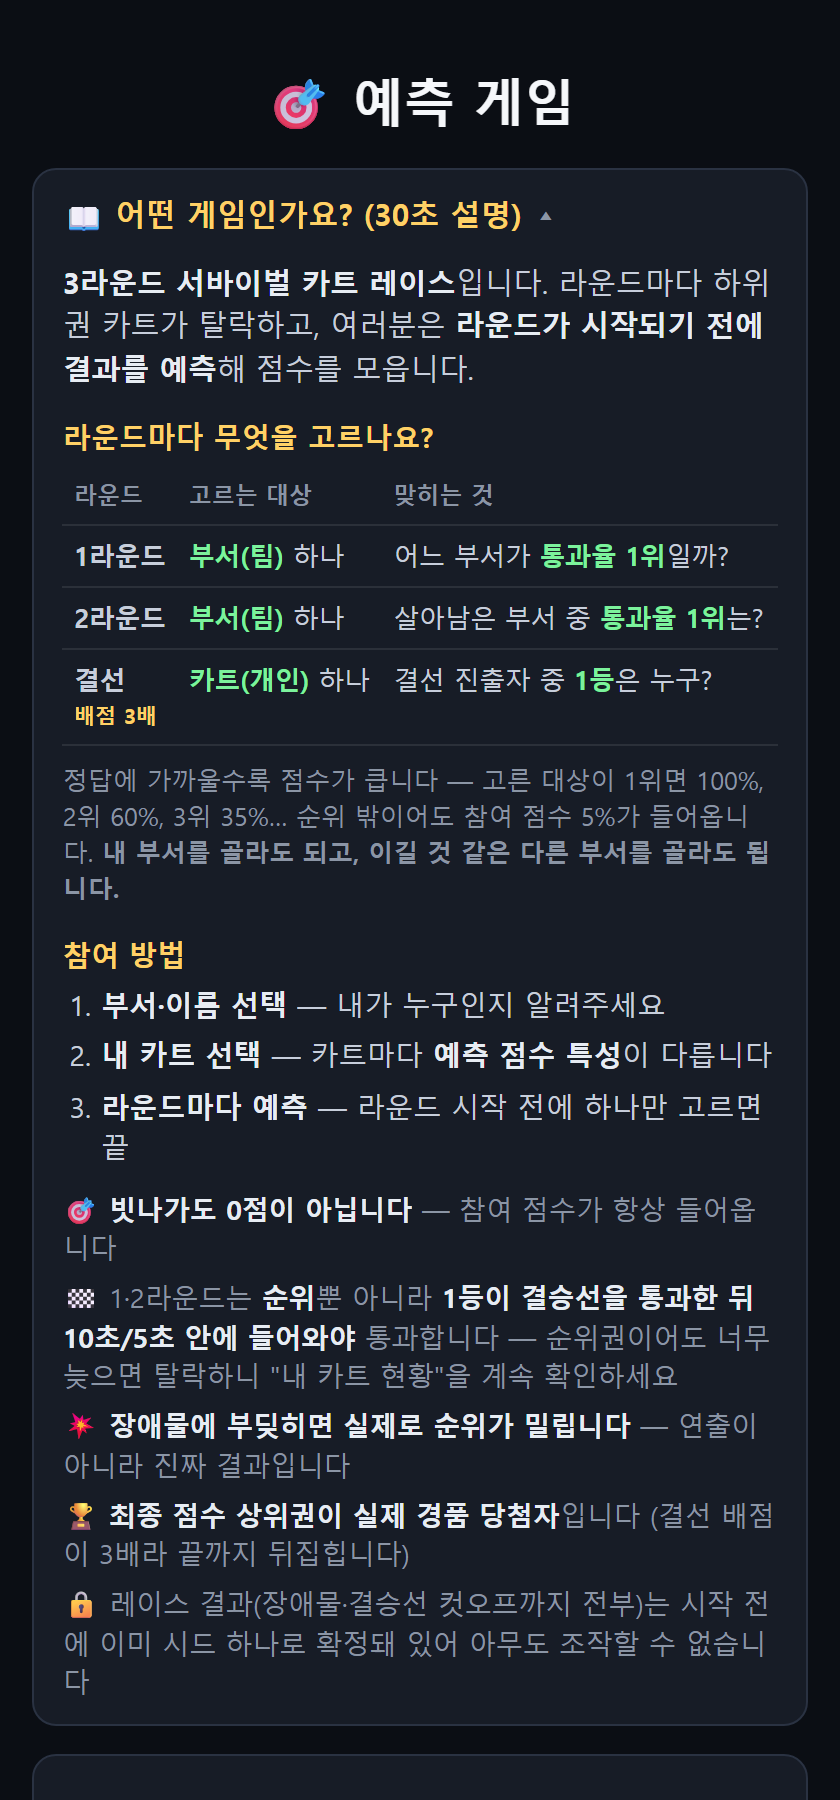
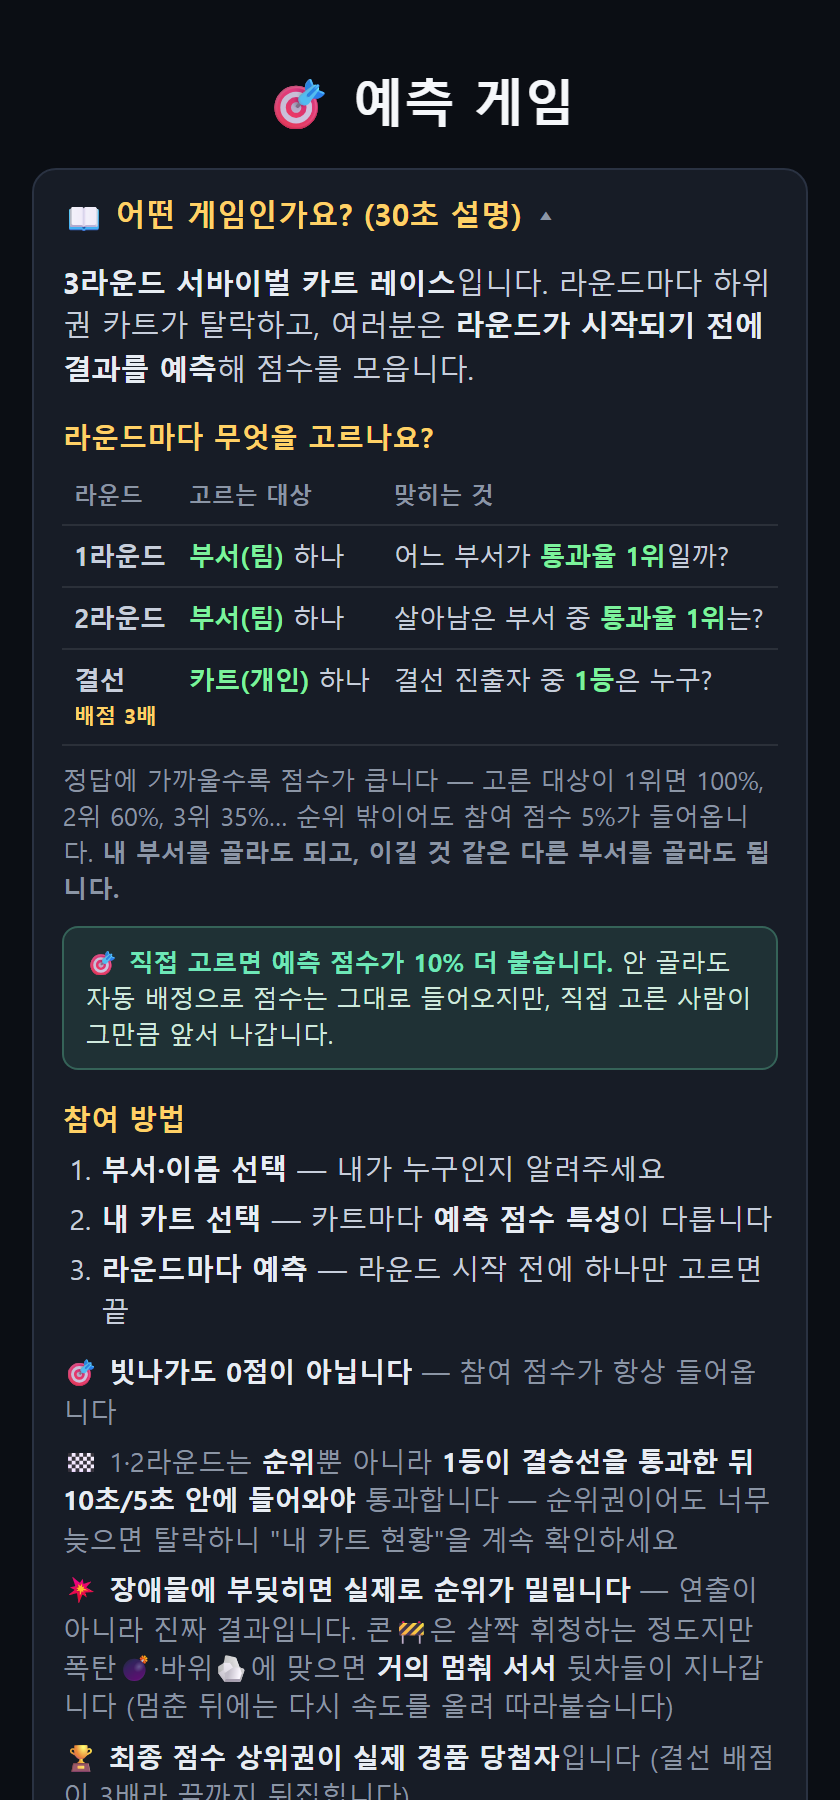
문서: 이번 세션 개발분 전체 현행화 + 모바일 소개 갱신
사용자 요청: "지금까지 개발된 내용도 관련 문서들에 현행화해 줘. 모바일
소개에서도 필요하면 업데이트해 주고."

**모바일 소개**(참가자가 가장 먼저 보는 화면)
- **직접 선택 보너스(+10%)를 추가**했다. "폰을 들 이유"를 만드는 장치인데
  소개 화면에 전혀 없었다. 안 골라도 자동 배정으로 점수는 그대로 들어온다는
  점을 함께 적어 "안 하면 손해"라는 압박으로 읽히지 않게 했고, 회색 본문에
  묻히지 않도록 초록 강조 박스로 뺐다.
- 장애물 안내를 "순위가 밀립니다"에서 한 걸음 더 구체화했다 -- 콘은 살짝
  휘청하지만 폭탄·바위는 거의 멈춰 선다는 것, 멈춘 뒤에는 다시 따라붙는다는 것.

**작업계획서** §12-11~§12-15 신설(문서 현행화·HUD 겹침·장애물 개편·라운드
결과 전체 화면·안정성 결함 2건), §13-10 신설(결선 카운트다운 0초 도입 후
원복 경위와 "점수는 카운트다운 길이와 무관하다"는 사실 확인).

**진행상황** 2026-08-10 세션 항목 추가. 더불어 §3 "알아두면 좋은 것"에서
**지금은 틀린 서술 3건**을 고쳤다 -- 여기는 이력이 아니라 현재 상태를
설명하는 절이라 틀리면 다음 세션이 그대로 오해한다:
- "장애물 효과는 보이는 위치에만 적용된다(EFFECT_FADE_TAIL)" -- §12-4
  이후로 장애물은 실제로 순위를 바꾼다. 다만 페널티가 참가자 행동이 아니라
  커밋 시드에서만 파생되므로 제1원칙은 유지된다는 쪽으로 다시 썼다.
  참조하던 EFFECT_FADE_TAIL 상수는 존재하지도 않는다.
- 점수 상수 목록의 MIN_ALLOC/MIN_ALLOC_ROUNDS(확신도 하한) -- 폐기된
  기능의 상수다. 실재하는 상수(ROUND_BASE_POINTS·MANUAL_PREDICT_MULTIPLIER·
  MINORITY_SHARE_RATIO)로 교체.
- "다음에 할 일"의 확신도 배분 검증 항목과 T4 폐기 사유의 "지금은 확신도
  배분이 그 역할을 한다" -- 둘 다 폐기된 기능 기준이었다. Playwright로
  이미 확인된 항목은 취소선 처리하고, 대신 **이번에 감속을 크게 키웠으니
  반대로 과한지 봐야 한다**는 새 확인 항목을 남겼다.

스크린샷 3종(모바일 소개·1라운드·선두 추적)을 최신 화면으로 다시 캡처했다.

검증: 모바일 소개를 실제 구동해 캡처로 레이아웃 확인, 콘솔 에러 0건.
pytest 330개 통과.

Changed region(s): [[0.0619, 0.4978, 0.9286, 1.0]]

diff --git a/static/mobile.html b/static/mobile.html
@@ -54,6 +54,15 @@
           2위 60%, 3위 35%… 순위 밖이어도 참여 점수 5%가 들어옵니다.
           <b>내 부서를 골라도 되고, 이길 것 같은 다른 부서를 골라도 됩니다.</b>
         </p>
+        <!-- 직접 선택 보너스(작업계획서 §12-10)는 "폰을 들 이유"를 만드는
+             장치라 소개 화면에 반드시 있어야 한다. 안 고른 사람도 자동
+             배정으로 100%를 받는다는 점을 함께 적어야 "안 하면 손해"라는
+             압박으로 읽히지 않는다. -->
+        <p class="intro-note-line intro-bonus-line">
+          🎯 <b>직접 고르면 예측 점수가 10% 더 붙습니다.</b> 안 골라도
+          자동 배정으로 점수는 그대로 들어오지만, 직접 고른 사람이
+          그만큼 앞서 나갑니다.
+        </p>
 
         <h3 class="intro-subhead">참여 방법</h3>
         <ol class="intro-steps-m">
@@ -67,7 +76,9 @@
               10초/5초 안에 들어와야</b> 통과합니다 — 순위권이어도 너무
               늦으면 탈락하니 "내 카트 현황"을 계속 확인하세요</li>
           <li>💥 <b>장애물에 부딪히면 실제로 순위가 밀립니다</b> — 연출이
-              아니라 진짜 결과입니다</li>
+              아니라 진짜 결과입니다. 콘🚧은 살짝 휘청하는 정도지만
+              폭탄💣·바위🪨에 맞으면 <b>거의 멈춰 서서</b> 뒷차들이 지나갑니다
+              (멈춘 뒤에는 다시 속도를 올려 따라붙습니다)</li>
           <li>🏆 <b>최종 점수 상위권이 실제 경품 당첨자</b>입니다 (결선 배점이 3배라 끝까지 뒤집힙니다)</li>
           <li>🔒 레이스 결과(장애물·결승선 컷오프까지 전부)는 시작 전에
               이미 시드 하나로 확정돼 있어 아무도 조작할 수 없습니다</li>

diff --git a/static/mobile.css b/static/mobile.css
@@ -408,6 +408,20 @@ button {
   color: #8b95a5;
 }
 
+/* 직접 선택 보너스 -- "폰을 들 이유"라서 회색 본문에 묻히면 안 된다. */
+.intro-bonus-line {
+  margin-top: 0.6rem;
+  padding: 0.5rem 0.65rem;
+  border-radius: 0.5rem;
+  background: rgba(110, 231, 183, 0.1);
+  border: 1px solid rgba(110, 231, 183, 0.28);
+  color: #cfe9dd;
+}
+
+.intro-bonus-line b {
+  color: #6ee7b7;
+}
+
 .intro-steps-m {
   margin: 0 0 0.7rem;
   padding-left: 1.2rem;

diff --git a/타추위-추첨프로그램_작업계획서.md b/타추위-추첨프로그램_작업계획서.md
@@ -1180,6 +1180,97 @@ Windows OS 설정이라 코드로 해결할 수 있는 범위 밖이다.
 
 **테스트**: 320개 통과(319 → +1).
 
+### 12-11. 문서 현행화 + 실제 화면 스크린샷 ✅ 완료(2026-08-10)
+
+**요청**: "게임 소개 문서와 게임 구조, README 등의 문서가 현재 완전히
+현행화되어 있는지, 불필요한 내용은 없는지, 설명.txt 내 사항들은 현재
+게임이 모두 만족하는지 철저히 체크해 줘."
+
+- **스크린샷 6종 신설**(`docs/screenshots/`). README에 "브라우저 자동화
+  도구가 없는 환경이라 화면 캡처를 만들 수 없었다"는 안내가 있었으나 더
+  이상 사실이 아니어서, Playwright로 실제 250명 세션을 구동하며 캡처했다
+  (출발 준비·1라운드·선두 추적·시상대·모바일·운영 콘솔).
+- **공모 요구사항 대응표**(README §1-2). `설명.txt`의 개발 고려사항 9개를
+  코드와 하나씩 대조해 충족 위치를 표로 정리했고, **전부 구현돼 있음**을
+  확인했다(명단 별칭 인식·재추첨 시 이전 당첨자 제외·전체 초기화·비상
+  조기 종료·정원 보장 등 실제 코드 위치까지 명시).
+- **틀린 서술 정정**: README의 "운영 콘솔에서 예측 게임 on/off 체크"는
+  거짓이었다(admin.js는 항상 `predictions_enabled: true`로 세션을 만들고,
+  끄는 경로는 API에만 있다). 게임구조 §5-3의 "개인 통과 점수 +8"은
+  실제 `FINISH_POINTS = 20`. §5-4 최상 시나리오는 직접 선택 보너스 반영
+  전 값이라 실제 채점기로 재계산해 1,995 → 2,160(미참여 대비 24 → 26배)로
+  고쳤다. 테스트 개수 302 → 320.
+
+### 12-12. 무대 HUD 겹침 수정 ✅ 완료(2026-08-10)
+
+스크린샷을 찍다 발견한 실제 결함. `drawHud`가 진행률 바를 `H * 0.06`
+(900px 화면에서 54px)에 그리는데 `#hud-top`이 4rem(64px)이라, 타이틀
+"🏁 타추위 GRAND PRIX" 위에 초록색 "통과권 N대"가, 우측 아이콘 위에
+"N%"가 겹쳐 찍혀 대형 스크린에서 글자가 뭉개졌다. 헤더는 고정 px인데
+바는 높이 비율이라 **화면이 낮을수록 더 깊이 파고든다.**
+
+헤더 아래(64px)와 좌우 패널 위(80px) 사이 빈 띠에 바만 그리도록 고정
+좌표로 바꿨다. 겹쳐 있던 두 텍스트는 되살리지 않았다 — 둘 다 이미 다른
+곳에 더 나은 형태로 있다(통과권 수는 컷오프 패널이 "N/후보수 +
+카운트다운"으로, 진행률은 바 자체와 헤더 타이머가).
+
+### 12-13. 장애물 종류별 특색 + 실질 패널티 ✅ 완료(2026-08-10)
+
+**요청 2건**: "장애물이 각각 특색이 있도록 해 줘. 움직임과 패턴도 다
+제각각이고, 크기도 카트보다 큰 것 등도 있게끔" → "장애물에 카트가 맞으면
+실질적 패널티가 없어 보여. 속도가 느려진다던가, 잠시 멈춘다던가."
+
+- **종류별 성격**(`OBSTACLE_PROFILES`): 8종이 전부 같은 사인파에 진폭만
+  난수로 달랐던 것을 크기 0.75~1.95배(바위는 카트의 약 2배), 움직임 패턴
+  7종(static/jitter/roll/tumble/pulse/glide/seep)으로 갈랐다.
+  **무겁고 클수록 덜 움직인다**는 규칙을 뒀는데, 판정이 레인 일치로만
+  이뤄져서 큰 장애물이 옆 레인을 침범하면 "저건 내 레인이 아닌데 왜 안
+  맞았지"로 보이기 때문이다.
+- **실질 패널티**(`OBSTACLE_IMPACT`): 위치를 빼는 대신 **진행 속도를**
+  떨어뜨린다. 예전에는 최대 3%를 남은 구간 전체에 나눠 돌려줘 순간 속도
+  변화가 사실상 0이었다. 실측(250명 라이브, 정상 카트 평균 = 1.00):
+  폭탄 0.12배 · 바위 0.19배 · 바나나 0.23배 · … · 콘 0.81배.
+  구현은 실효 진행률 워프(`_speed_profile`/`_warp`)라 위치가 뒤로 가지
+  않고, `_warp(1.0)`이 정확히 1.0이라 통과 판정과 어긋날 수 없다.
+- 연출 효과(`active_effect_at`)도 감속 구간에서만 켜지게 고쳤다. 예전에는
+  맞은 지점부터 결승선까지 켜져 있어 늘 "맞는 중"이라 의미가 없었다.
+
+**순위는 그대로다** — 속도는 "화면에서 어떻게 보이는가", `OBSTACLE_CATALOG`의
+penalty는 "누가 이기는가"를 정하며 둘 다 시드에서만 파생된다.
+
+### 12-14. 라운드 결과 전체 화면 ✅ 완료(2026-08-10)
+
+**요청**: "각 라운드 끝난 후에는 라운드의 결과를 전체 화면에 보여주도록."
+
+R1·R2 종료 순간 결과를 화면 전체로 띄우고, **7초 뒤 원래의 작은 카드로
+되돌린다**(`ROUND_RESULT_FULLSCREEN_MS`). 선택 창 내내 전체 화면을
+유지하면 우측 실시간 선택 통계가 가려져 참가자가 다음 라운드를 고를 근거를
+못 본다. 작업 중 배너(`inset:0` 가운데 정렬)가 결과 표 한복판을 덮어
+양쪽 다 못 읽는 상태를 캡처로 발견해, 전체 화면 동안에는 배너를 아래로
+내리도록 함께 고쳤다.
+
+### 12-15. 자체 감사로 찾은 안정성 결함 2건 ✅ 완료(2026-08-10)
+
+사용자 지시("그 외 버그와 개선점을 철저히 찾아 줘")에 따른 감사 결과.
+공정성 엔진 자체는 극단값(참가자 1명·당첨자 전원·300명)에서도 정원과
+중첩 불변식이 모두 유지돼 이상 없었고, 대신 **운영 중 실제로 터질 수 있는**
+두 가지를 찾아 고쳤다.
+
+1. **재추첨·새 세션이 진행 중인 레이스를 끊지 않았다**(가장 심각).
+   재추첨은 session_id를 그대로 두고 draw만 덧붙이므로 런북의 구간 경계
+   검사에 안 걸려 끝까지 완주하고, **재추첨 전 당첨자를 최종 발표**한다.
+   게다가 `active_race_tasks`가 점유돼 새 레이스 시작이 409로 막힌다.
+   진단 스크립트로 재현(재추첨 후 33틱 추가 진행 + 옛 당첨자 발표)한 뒤
+   `_cancel_active_races()`를 새 세션·재추첨·초기화에 모두 걸었다.
+2. **막힌 폰 한 대가 브로드캐스트 전체를 붙잡았다.** `broadcast`가 for
+   루프에서 하나씩 await해 지연이 합산됐다. 실측(정상 245대 + 1.5초씩
+   막힌 5대): **7.52초 → 1.52초**. `asyncio.gather` + 연결당 2초 제한으로
+   고치고, 제한을 못 지키는 연결은 끊는다(행사장 Wi-Fi에서는 끊기지도
+   받아가지도 않는 연결이 흔한데 예외가 안 나 기존 try/except로는 못 잡혔다).
+
+두 건 모두 회귀 테스트를 추가했고, 수정을 일시적으로 무력화해 테스트가
+실제로 실패하는 것까지 확인했다.
+
 ---
 
 ## 13. 설계 변경 이력 — "왜 지금 이 구조인가"
@@ -1281,3 +1372,21 @@ Windows OS 설정이라 코드로 해결할 수 있는 범위 밖이다.
 플로어로 걸려 있어 25초로 낮추면 이 최소값과 직접 충돌한다. 사용자에게
 확인한 결과 **30초를 유지하기로 결정**(2026-08-10) — 선택 UX가 25초 단축
 보다 우선한다. 코드 변경 없음.
+
+### 13-10. 결선 "1등 통과 즉시 발표" — 도입했다가 원복(5초 유지)
+
+사용자 요청으로 결선 카운트다운을 5초 → 0초(1등이 결승선을 넘는 즉시
+결과 발표)로 바꿨다가, **같은 세션에서 사용자 판단으로 되돌렸다**(2026-08-10).
+
+되돌린 이유(사용자): "3라운드에서는 결승선 첫 차가 통과해도, 그 다음
+카운트다운 동안 다른 카트도 들어오면 포인트를 얻는 것도 있구나."
+
+**사실 확인**: 점수 자체는 카운트다운 길이와 무관하다. 순위·통과자·점수는
+전부 커밋 시점에 확정되고, `_apply_cutoff_window`는 R1·R2에만 적용된다
+(R3는 아무도 떨어뜨리지 않는다). 그럼에도 되돌리는 것이 맞다 — 이 몇 초가
+**나머지 결선 카트들이 차례로 결승선을 넘는 것을 관객이 눈으로 확인하는
+유일한 구간**이라, 곧바로 끊으면 그 장면이 통째로 사라진다.
+
+원복하면서 `_run_race_phase`의 종료 조건 검사만 truthy → `is not None`으로
+남겨뒀다. 창 길이를 0으로 두면 truthy 검사가 조용히 실패해 결선이 영영 안
+끝나는데, 실제로 그 경로를 밟았기 때문에 방어적으로 고정해 둔다.
